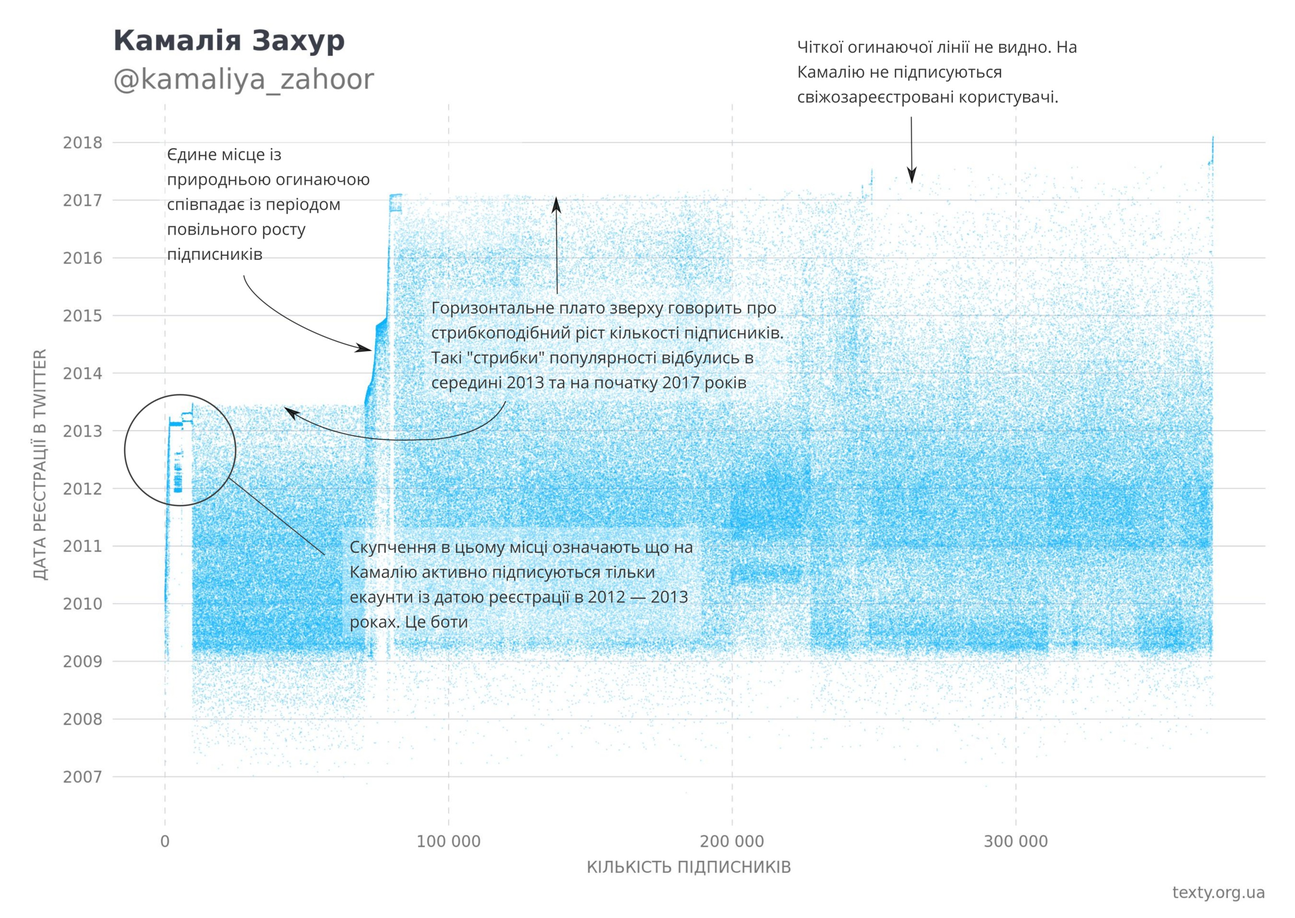
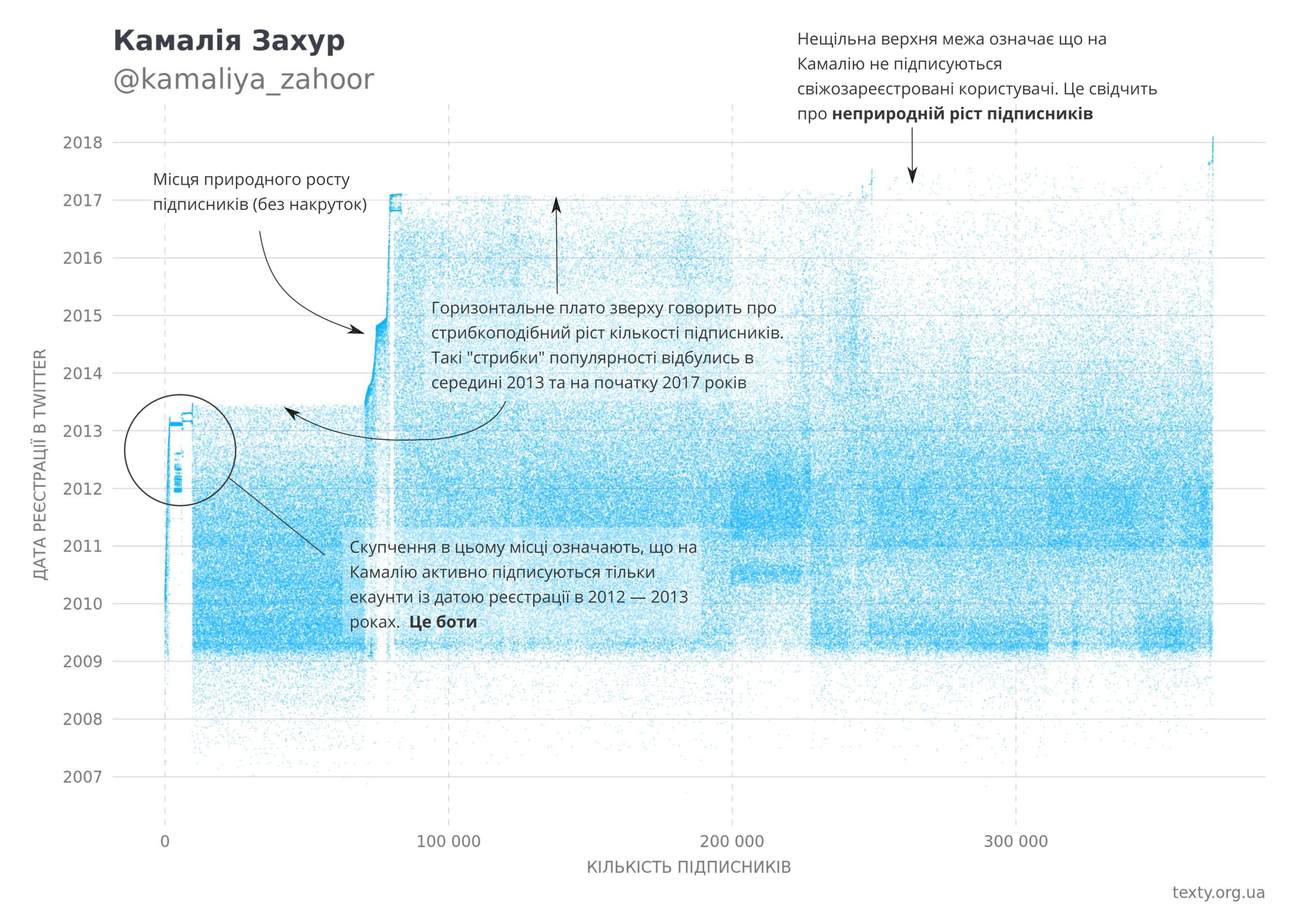
частина правок Толіка і Маші

diff --git a/index.html b/index.html
@@ -156,7 +156,7 @@
         <div class="col-xs-12">
             <div class="figure clickable text-center">
                 <img src="img/awentos.jpg" alt="Графік awentos-а">
-                <p class="figcaption">Графік підписників <a href="https://twitter.com/awentos/" target="_blank" class="dotted">@awentos</a>-а повністю складається із чітких "блоків" і скупчень різноманітної форми. Це його власні боти</p>
+                <p class="figcaption">Графік підписників <a href="https://twitter.com/awentos/" target="_blank" class="dotted">@awentos</a>-а повністю складається із чітких "блоків" і скупчень різноманітної форми. Це все його власні боти</p>
             </div>
         </div>
     </div>
@@ -219,7 +219,7 @@
             <p>Натомість, вертикальні однорідні лінії можна пояснити хвилями популярності, які призводили до раптового росту кількості підписників із різними датами реєстрації.</p>
 
             <p>Нижче дивіться на графіки інших популярних Твіттер-екаунтів: від Юлії Тимошенко - до Петра Порошенка, від Святослава Вакарчука – до Насті Каменських.
-                Читати графіки допоможе просте правило: Неоднорідні скупчення на картинці свідчать про ботів серед підписників. Щоб зрозуміти більше, спочатку подивіться інструкцію: </p>
+                Нагадаємо, що зрозуміти графіки допоможе <a class="dotted clickable" href="javascript: void(0);" data-img-src="img/how_to_read.jpg">інструкція </a> а також просте правило: неоднорідні скупчення на картинці свідчать про ботів-підписників. </p>
         </div>
     </div>
 

diff --git a/js/main.js b/js/main.js
@@ -10,6 +10,10 @@
             viewer.show(this.src);
         });
 
+        $(".clickable[data-img-src]").click(function() {
+            viewer.show($(this).data("img-src"));
+        });
+
         var searchTerm = "";
 
         $("input#chart-search-box").on("change input", function() {
